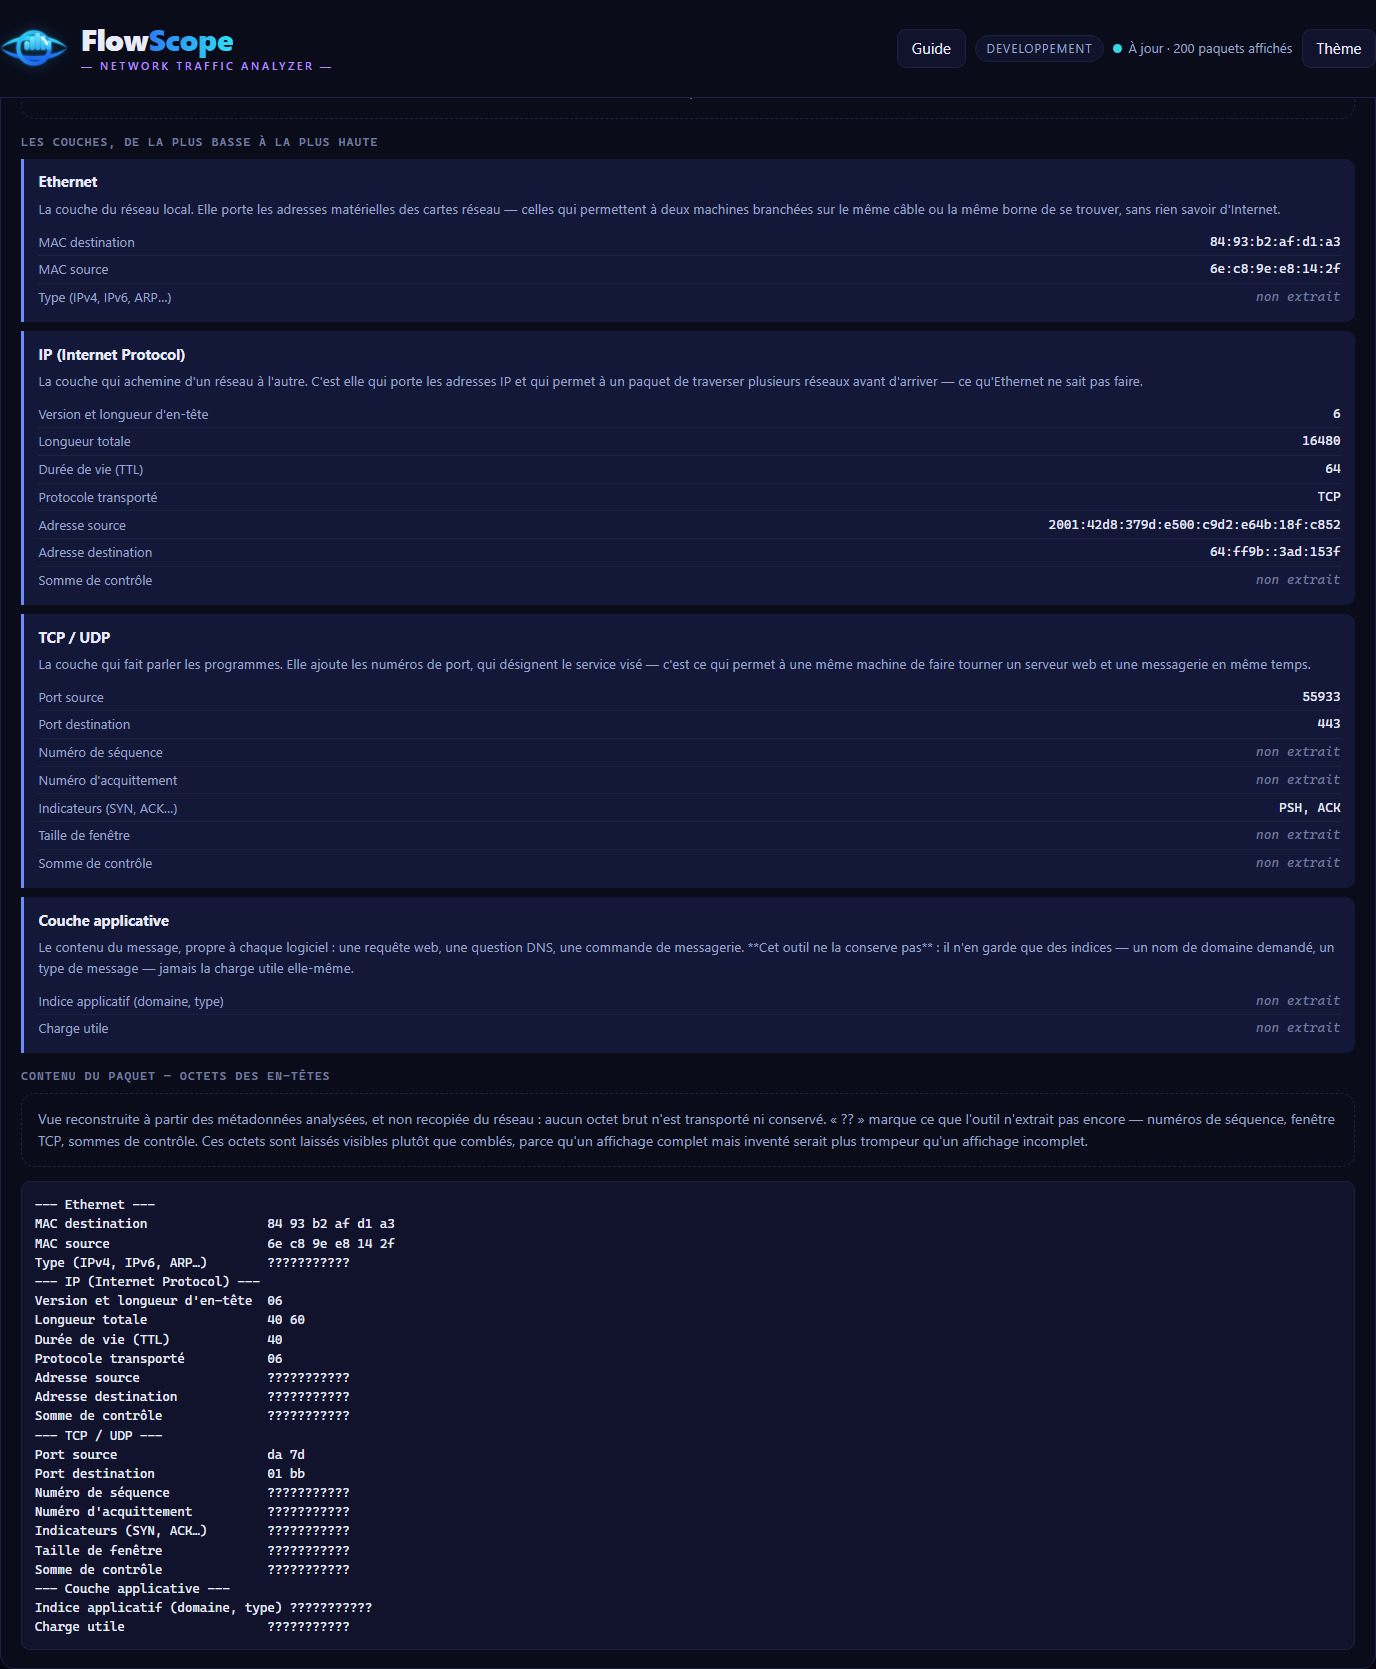
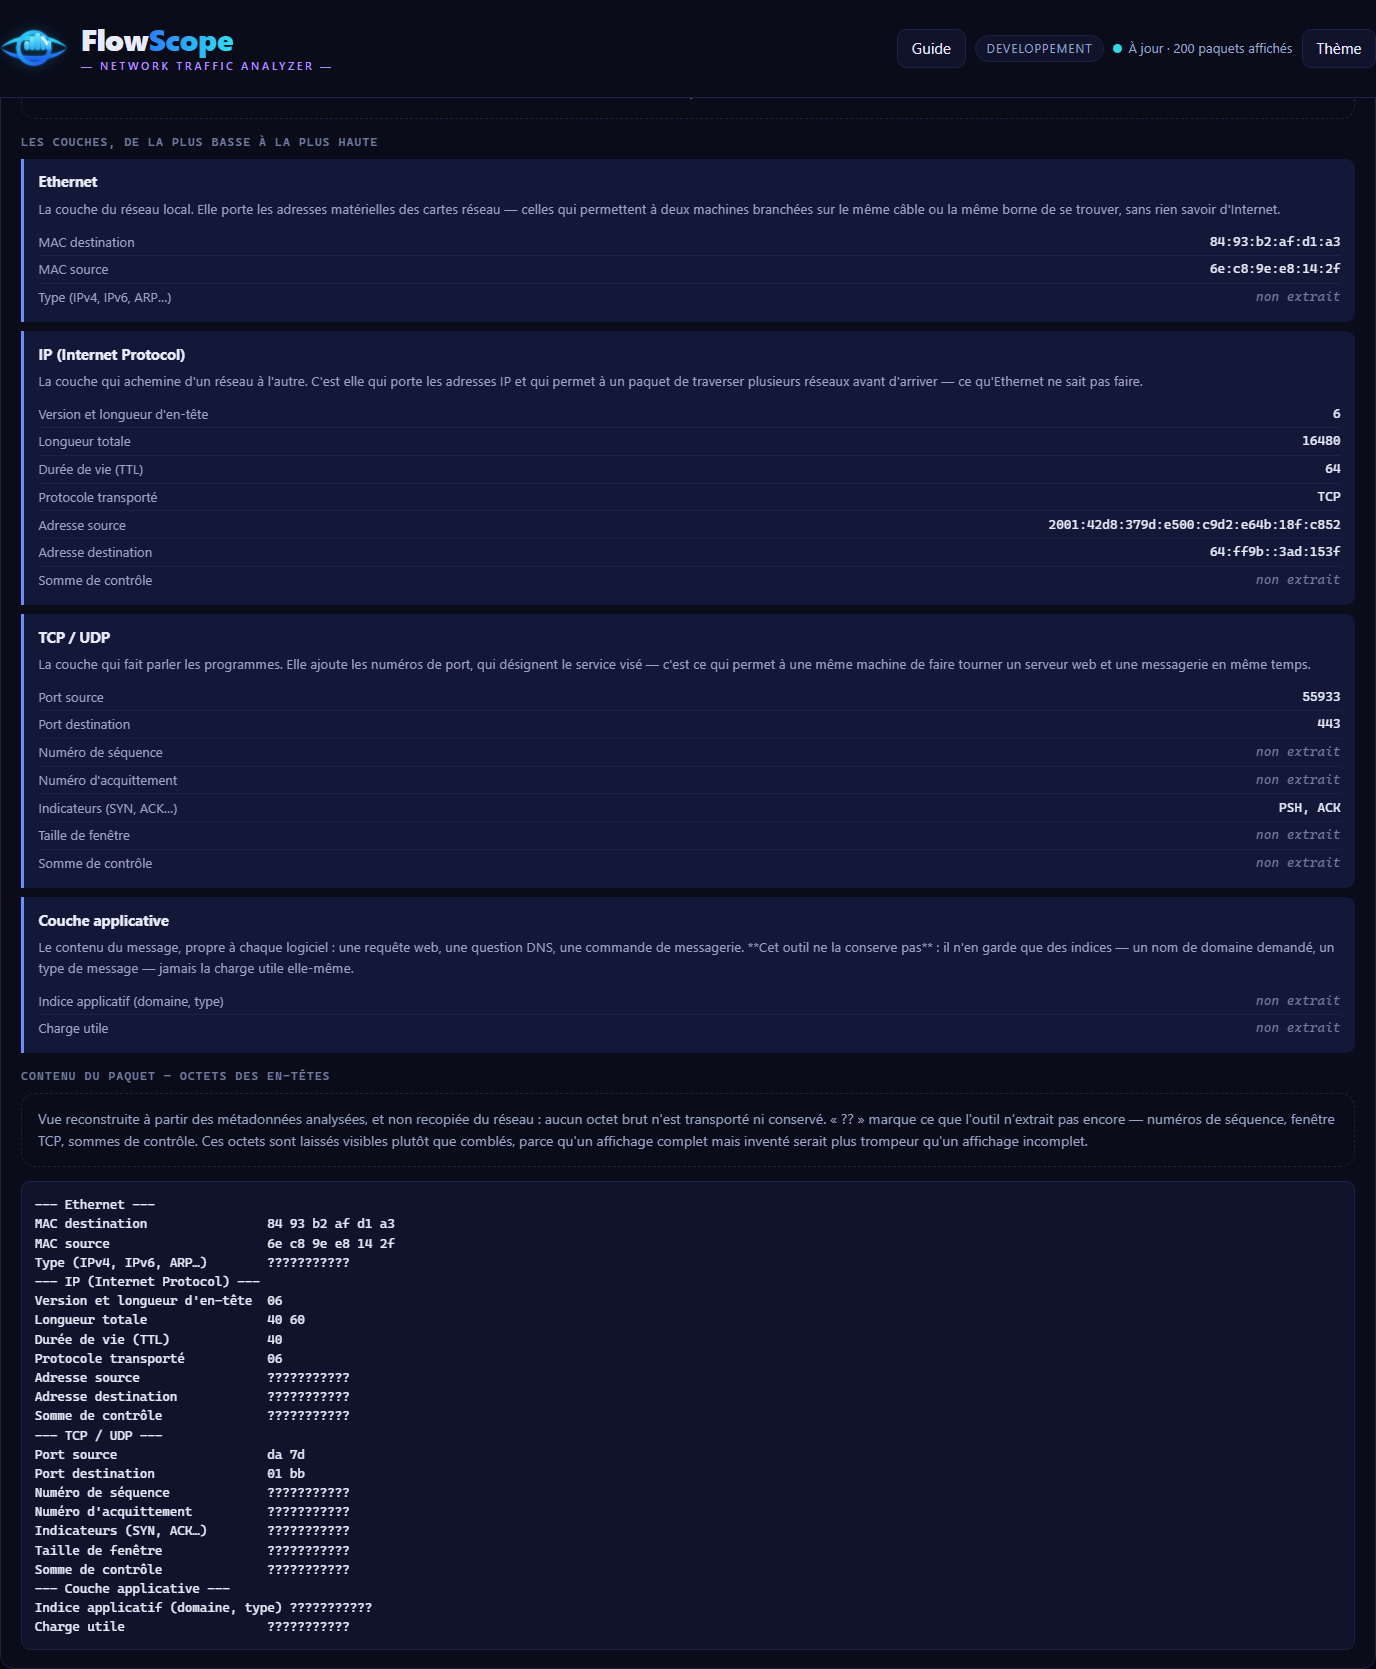
fix(web): une reference ARIA pointait vers un element supprime
EN RETIRANT LE PARAGRAPHE D'AIDE DU FILTRE, J'AI LAISSE UNE REFERENCE MORTE. Le champ de
recherche portait aria-describedby="aide-filtre filtre-erreur" : le premier de ces deux
identifiants n'existe plus depuis le retrait. Un lecteur d'ecran a qui l'on demande de decrire
un champ en lisant un element absent tient un discours incomplet ou casse - et le defaut n'etait
visible nulle part dans le rendu, seulement dans l'arbre d'accessibilite.

LA REFERENCE EST RETIREE, l'autre est conservee : filtre-erreur existe toujours et reste utile.

LA CORRECTION EST CIBLEE : une chaine exacte remplacee une seule fois. Ma premiere tentative
passait par une expression reguliere sur les espaces avant « > » : elle a casse un controle
(56/57) et il a fallu repartir du fichier versionne. Deuxieme fois dans cette session qu'une
substitution trop large abime plus qu'elle ne repare. Une correction qui touche tout le fichier
n'est pas une correction ciblee, meme quand elle part d'une bonne intention.

CE QUI EST VERIFIE : toutes les cibles citees par aria-describedby, aria-labelledby et
aria-controls existent dans la page. Dix-sept references, aucune morte. Les identifiants de la
page sont tous uniques.

57/57 verifications navigateur.

diff --git a/web/templates/index.html b/web/templates/index.html
@@ -84,7 +84,7 @@
     <input type="search" id="champ-filtre" class="champ-filtre" autocomplete="off"
            spellcheck="false"
            placeholder="proto:tcp port:443 ip:192.168.1."
-           aria-describedby="aide-filtre filtre-erreur">
+           aria-describedby="filtre-erreur">
     <button type="button" class="bouton bouton--fantome" id="effacer-filtre">Effacer</button>
     <label class="sr-only" for="choix-profil">Profil d'analyse</label>
     <select id="choix-profil" class="choix-profil">
